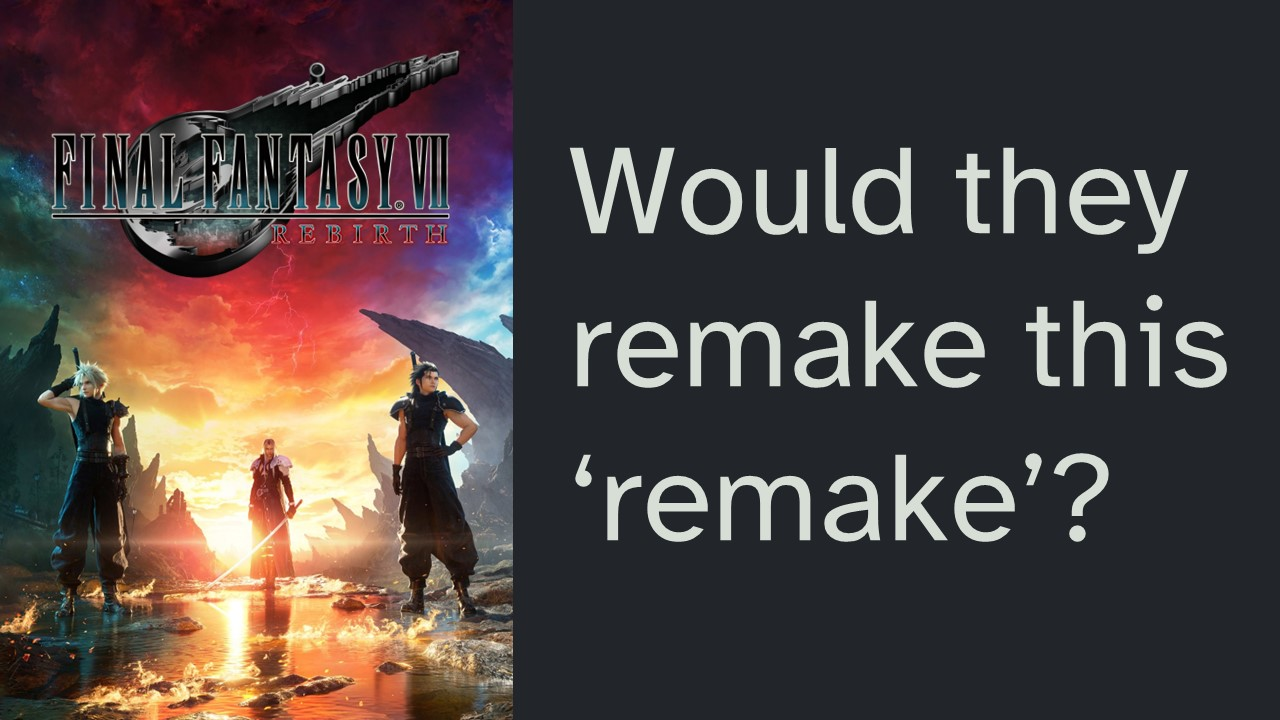
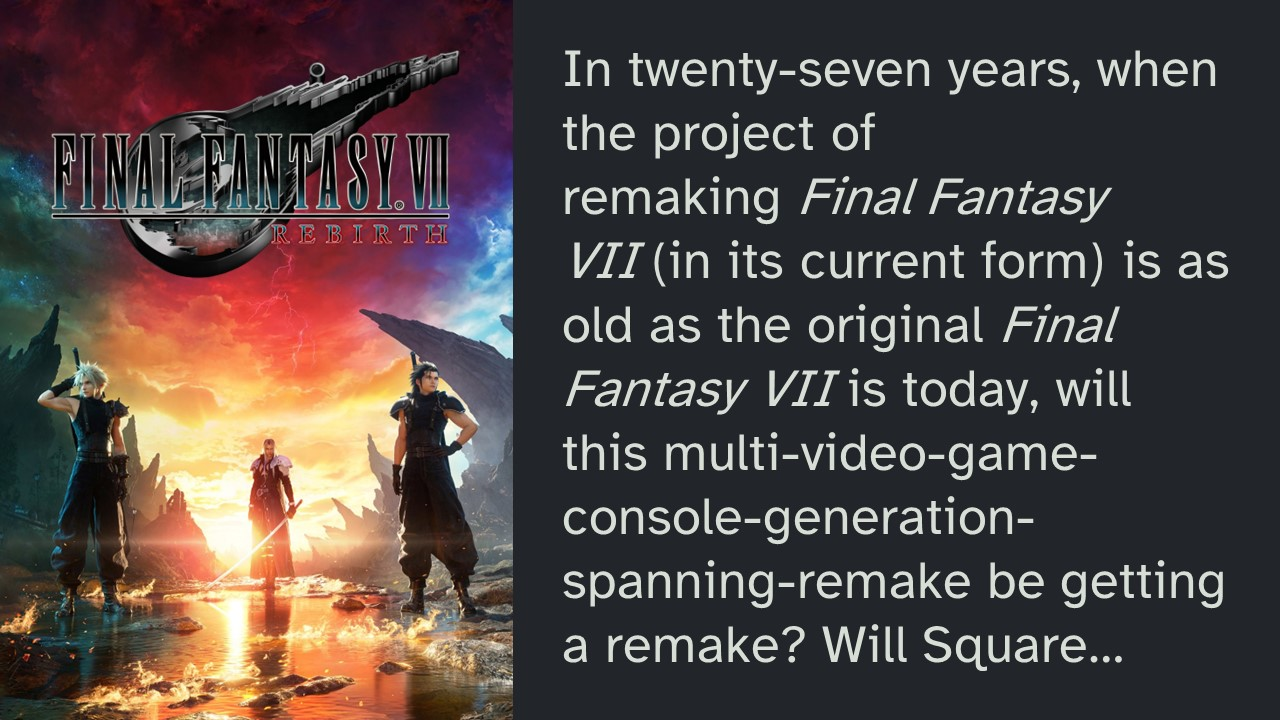
added animal well article

diff --git a/essays/Animal Well's Radical Reperformance of Metroidvania Colonisation.html b/essays/Animal Well's Radical Reperformance of Metroidvania Colonisation.html
@@ -1,0 +1,77 @@
+<!doctype html>
+<html>
+<head>
+	<meta charset="UTF-8">
+	<meta name="viewport" content="width=device-width, initial-scale=1">
+	<link rel="preload" href="../fonts/9Bt23C1KxNDXMspQ1lPyU89-1h6ONRlW45G04pIo.woff2" as="font" type="font/woff2" crossorigin>
+
+	<link rel="stylesheet" href="../styles/darkstyle.css">
+	<title>Animal Well's Radical Reperformance of Metroidvania Colonisation</title>
+</head>
+
+<h3 ><a href="../index.html" title="home">Animal Well's Radical Reperformance of Metroidvania Colonisation</a></h3>
+	
+	<img id="f1" src="../images/Animal Well.jpg" alt="" border="0" class="ecenter">
+	
+	<br>
+
+	<div>Compared to other metroidvanias, <em>Animal Well</em> offers a different sense of mastery and empowerment over the environment and in relation to your playable character. The upgrades you discover while exploring the map don't directly augment the little round creature you play as. Rather, they are random everyday items that allow you to deploy certain objects into the world. These can then be used to aid traversal or solve puzzles. For example, one of the first items you find - and I won't mention any others to avoid spoilers - but one of the first items you'll find is the bubble wand, which allows blow bubbles, which can then be jumped on to reach higher ground. There is no double jump to unlock, a recurring upgrade in many metroidvanias. The way it feels to play the character is unchanged throughout a playthrough. It moves in a very simple way, walking left and right and jumping. This simple round creature is a mere conduit through which you can add new objects to the world. And the playable character itself experiences no growth and remains unchanged. Compare this to Samus from the <em>Metroid</em> games or <em>Sargon from Prince of Persia: The Lost Crown.</em> Most upgrades enhance traversal by changing the playable characters themselves; how they move and attack within the world, as a means of gaining mastery over that world.</div>
+
+	<div aria-hidden="true" align="right"><a id="2." class="eposition" href="" target="_blank" title="Video comming soon">&#9655</a></div>
+
+	<div>A consequence of this difference for <em>Animal Well</em> is that you don't get that same feeling of mastery and dominance over your environment. I speak as someone who completed the main story, and I understand that there is still much to discover and even new items to unlock, post-credits, which could possibly serve as a counterpoint. And these remaining mysteries only add to the lack of a more traditional metroidvania power trip. But the consequence of all this is that <em>Animal Well</em> seems uninterested in making the player feel powerful; clever, maybe, because this is a puzzle game, but not themselves powerful. So there is a non-violence to the experience, even though there are some creatures to kill it's never essential except for the bosses and these are always defeated in an indirect sort of way, in the form of a puzzle. And many of the items you get feel a bit useless, like it's not initially clear how they are going to help you and their applications are specific to the puzzles. Unlike say, a blaster upgrade that can be applied universally to pretty much any problem, in the way violence assumes itself to be a potential solution to any problem, in the way video games love to solve problems with violence. Violence is a blanket solution to any situation, but it can never solve the problem of itself.</div>
+
+	<div aria-hidden="true" align="right"><a id="2." class="eposition" href="" target="_blank" title="Video comming soon">&#9655</a></div>
+
+	<div>Metroidvanias are video games about colonisation and in that sense, they also perform it. You acquire new abilities which allow you to dominate and control more of the map until the entire playspace can be easily traversed and you are equipped to exterminate anything that crosses your path. The first <em>Metroid</em> even takes place on an alien planet, where you kill every native lifeform you encounter. Granted, Samus isn't there for that; she's there to defeat the Mother Brain and stop the space pirates who stole the Metroid and want to use it as a biological weapon. But why did the Galactic Federation have a metroid and why were they doing experiments on it in the first place? The Galactic Federation is a colonising force. But I'm digressing because it is the way these games are played, irrespective of their stories, that makes them a performance of the gesture of colonialism and its violence. The satisfaction we get from these games, the sense of discovery is directly attached to the sense of mastery that follows. And this is the most violent thing about these games. It's not the case by case, death animations, it's the basic premise of dominating a space through the acquisition of abilities and tools that will enable the penetration of every part of it.</div>
+
+	<div aria-hidden="true" align="right"><a id="2." class="eposition" href="" target="_blank" title="Video comming soon">&#9655</a></div>
+
+	<div>Perhaps <em>Animal Well,</em> then, is the beginning of the video game discovering a kind of response to that. It's a discovery of a new posture the player might adopt in relation to the playspace or environment, which is a coexistence rather than a mastery. It generates an experience of solving puzzles <em>along with</em> the world, rather than <em>against</em> it. I don't want to say that <em>Animal Well</em> is the first game to do this, but it did feel novel to me, especially against other metroidvanias I've played. I also don't want to suggest that the video game itself, more broadly, needs to be 'decolonised' according to the popular discourse surrounding that concept. Because <em>Animal Well</em> shows us that the lived experience of a video game, at least its potentiality, is neutral, or better 'neither', in regards to those issues. It isn't confined by its status as a metroidvania to perform those hyper-individualist and colonising progression systems, not by virtue of its own genius or any special qualities within itself, but for what it takes for itself, de jure, as a video game. The violence of the other metroidvanias I've mentioned is not for an essentialism within the genre itself but for a simple lack of thought or wherewithal or desire to do something otherwise. The video game image can contain anything you like, and any limitations are hallucinatory. 'Hallucinatory': not to dismiss them or say they're not real,  but the video game's willingness to violate those boundaries is what can undermine them in popular and academic discourse. And essays like this are to point to that lived experience of the video game, and to frame it as a lived critique of the narrowness of our discussions, to support the generation of new experiences which are neither. That is, they are outside what is currently thinkable in discussions around decolonisation.</div>
+
+	<div aria-hidden="true" align="right"><a id="2." class="eposition" href="" target="_blank" title="Video comming soon">&#9655</a></div>
+
+	<div><em>Animal Well</em> doesn't decolonise exactly, because it's still a metroidvania, you still have to traverse the environment and overcome, in a sense, the creatures you encounter. However, it shows itself to enjoy a freedom as a video game, which precedes its status as a metroidvania. Rather than pushing <em>against</em> what metroidvanias are, <em>Animal Well</em> performs that genre again, only this time to discover new postures or identities within the image-event. We can regard these sorts of performances as a kind of 'thought' unique to video games, uninterested in reflecting or contradicting passed instances, but which is focused unidirectionally on  creatively resolving the next image (this is how video games are played). In this way, video games <em>think</em> non-philosophically; in this way, <em>Animal Well</em> performs the metroidvania in new ways, to perform a semblance of colonisation in new ways, which are non-violent. </div>
+<br>
+<br>
+<br>
+			
+
+
+
+
+
+
+
+
+
+
+
+
+
+
+
+
+
+
+
+
+
+
+
+
+
+		
+		
+		
+		
+		
+	
+	
+	
+		
+	
+		
+	
+</body>
+</html>

diff --git a/essays/FFVII Rebirth.html b/essays/FFVII Rebirth.html
@@ -15,15 +15,15 @@
 	
 	<br>
 
-	<div>This essay will contain major spoilers for the original 1997 video game, <em>Final Fantasy VII,</em> and the 2020 remake. I've tried to avoid spoiling the latest installment, released this year, called <em>Final Fantasy VII Rebirth.</em> But there will be some minor spoilers in the forms of the visuals I show and what's necessary for the concepts I'll be discussing. Where possible, I use examples from the original <em>Final Fantasy VII</em> to make my points. If you've never played that game, I recommend it. But if you don't plan on playing it, this essay may prepare you with the context necessary to appreciate <em>Rebirth</em> and even video games more generally, albeit with a disappointment in the state of the gaming industry. I hope you'll soon see what I mean.</div>
-
-	<div aria-hidden="true" align="right"><a id="2." class="eposition" href="" target="_blank" title="Video comming soon">&#9655</a></div>
-
 	<div>In twenty-seven years, when the project of remaking <em>Final Fantasy VII</em> (in its current form) is as old as the original <em>Final Fantasy VII</em> is today, will this multi-video-game-console-generation-spanning-remake be getting a remake? Will Square Enix, or whoever owns them in 2051, remake the remake? Will the kids of today remember playing the latest installment, called <em>Final Fantasy VII Rebirth,</em> and have nostalgia for what now functions as an elaborate pandering to our nostalgia? I don’t want to try and predict what a particular video game might become to certain generations of gamers, but I will say that however <em>Final Fantasy VII Rebirth</em> is remembered, whatever its contributions to the medium, this game has not 'remade' the original's impact. This isn’t a criticism either, because it certainly isn’t trying to; the performance of the game is aware of its non-equivalence with its source material to such a painful extent that this realisation has seeped and grown within the divergent retelling of the original story itself.</div>
 
 	<div aria-hidden="true" align="right"><a id="2." class="eposition" href="" target="_blank" title="Video comming soon">&#9655</a></div>
 
-	<div>It goes like this: <em>Final Fantasy VII Remake</em> was released in 2020 and initially posed as a faithful retelling of the first act of the original, a straight 'remake'. However, the introduction of a new plot device revealed Remake to not be the remake we were expecting:</div> 
+	<div>This essay will contain major spoilers for the original 1997 video game, <em>Final Fantasy VII,</em> and the 2020 remake. I've tried to avoid spoiling the latest instalment, released this year, called <em>Final Fantasy VII Rebirth.</em> But there will be some minor spoilers in the forms of the visuals I show and what's necessary for the concepts I'll be discussing. Where possible, I use examples from the original <em>Final Fantasy VII</em> to make my points. If you've never played that game, I recommend it. But if you don't plan on playing it, this essay may prepare you with the context necessary to appreciate <em>Rebirth</em> and even video games more generally, albeit with a disappointment in the state of the gaming industry. I hope you'll soon see what I mean.</div>
+
+	<div aria-hidden="true" align="right"><a id="2." class="eposition" href="" target="_blank" title="Video comming soon">&#9655</a></div>
+
+	<div><em>Final Fantasy VII Remake</em> was released in 2020 and initially posed as a faithful retelling of the first act of the original, a straight 'remake'. However, the introduction of a new plot device revealed Remake to not be the remake we were expecting:</div> 
 	<blockquote><span class="small">Whispers. Perhaps best described as arbiters of fate. They are drawn to those who attempt to alter destiny’s course and ensure they do not.</span></blockquote>
 	<div>Let’s say these whispers are a diegetic analogue of the loyalist fans demanding an accurate retelling, against the creative impulses of the developers and their desire to tell a new story. Cloud and his companion’s struggle against the whispers at each instance of the story’s divergence from the original, is a reflection of the developer’s struggles to fulfill fan’s expectations. At Remake's conclusion, it remained to be seen which force would win out in this struggle between nostalgia and new visions; though the finale seemed to suggest a breaking away from destiny and the opening up of more possibilities in its sequel, <em>Rebirth.</em> Now having experienced the remake's continuation, it's clear those expectations failed to appreciate the depth of the <em>Final Fantasy VII</em> remake project’s existential crisis.</div>
 

diff --git a/index.html b/index.html
@@ -11,27 +11,31 @@
 </head>
 <h1 class="dina-font" align="center">VIDEO GAMES THINK</h1>
 <br>
+	<div>Video games think on their own before we think about them. We do not need to give a type of intellectual analysis or artistic appraisal to them. They are their own best description of themselves, being both an image and an indeterminate inter-human event. Video games are their own type of thought. The discovery and enabling of which has the potential to be a radical displacment outside the institutions of representational philosophy.</div>
+<br>
 	<div>This website is a platform for the emancipation of the video game from two competing forces; its determination as a consumer product and its misrepresentation vis-à-vis other mediums.</div>
 	<div align="right"><em>Dr Ben Evans</em></div>
 	<br>
-    <hr class="short-hr" style="margin-bottom: 3px;">
+    <hr class="short-hr" style="margin-bottom: 5px;">
     <div align="center" style="margin-bottom: -15px;">My PhD thesis is an interactive website.</div>
     <h2 align="center" style="line-height: 1;"><a href="title.html">Videogames for a New Anthropological Image</a></h2>
     <div align="center" style="margin-top: -15px;">You can read it here.</div>
-    <hr class="short-hr" style="margin-top: 3px;">
+    <hr class="short-hr" style="margin-top: 5px;">
 	<br>
+<h3><a href="essays/Animal Well's Radical Reperformance of Metroidvania Colonisation.html" title="read">Animal Well's Radical Reperformance of Metroidvania Colonisation</a></h3>
+<img id="f1" src="images/Animal Well.jpg" alt="" border="0" class="ecenter">
+<div align="right">(<a href="essays/Animal Well's Radical Reperformance of Metroidvania Colonisation.html" title="read">read more</a>)</div>
+
 <h3><a href="essays/FFVII Rebirth.html" title="read">Final Fantasy VII Rebirth</a></h3>
 <img id="f1" src="images/FFVII.jpg" alt="" border="0" class="ecenter">
-<br>
-<div>This essay will contain major spoilers for the original 1997 video game, <em>Final Fantasy VII,</em> and the 2020 remake. I've tried to avoid spoiling the latest installment, released this year, called <em>Final Fantasy VII Rebirth.</em> But there will be some minor spoilers in the forms of the visuals I show... (<a href="essays/FFVII Rebirth.html" title="read">read more</a>)</div>
-<br>
+<div align="right">(<a href="essays/FFVII Rebirth.html" title="read">read more</a>)</div>
+
 <h3><a href="essays/Minishoot' Adventures is a Gateway Drug.html" title="read">Minishoot' Adventures is a Gateway Drug</a></h3>
 <figure>
     <div style="padding:56.25% 0 0 0;position:relative;"><iframe src="https://www.youtube.com/embed/P_I3UwmEwHc?si=0pmKxrv8sxMDSEkl" title="YouTube video player" frameborder="0" allow="accelerometer; autoplay; clipboard-write; encrypted-media; gyroscope; picture-in-picture; web-share" style="position:absolute;top:0;left:0;width:100%;height:100%;" referrerpolicy="strict-origin-when-cross-origin" allowfullscreen></iframe></div>
 </figure> 
-<br>
-<div>Minishoot' Adventures is a twin stick shooter, bullet hell RPG that takes a lot of inspiration from the Legend of Zelda series. In this game you don't play as a person, you play as a cute little spaceship. This feels appropriate to the bullet hell gameplay, and follows the same... (<a href="essays/Minishoot' Adventures is a Gateway Drug.html" title="read">read more</a>)</div>
-<br>
+<div align="right">(<a href="essays/Minishoot' Adventures is a Gateway Drug.html" title="read">read more</a>)</div>
+
 <h3><a href="essays/Laruelle's Philosophy and Non-Philosophy.html" title="read">Laruelle's Philosophy and Non-Philosophy</a></h3>
 <figure>
     <div style="padding:56.25% 0 0 0;position:relative;"><iframe src="https://www.youtube.com/embed/G-pWHLWblVo?si=ALbalvTvnatp4goQ" title="YouTube video player" frameborder="0" allow="accelerometer; autoplay; clipboard-write; encrypted-media; gyroscope; picture-in-picture; web-share" style="position:absolute;top:0;left:0;width:100%;height:100%;" referrerpolicy="strict-origin-when-cross-origin" allowfullscreen></iframe></div>

diff --git a/essays/Minishoot' Adventures is a Gateway Drug.html b/essays/Minishoot' Adventures is a Gateway Drug.html
@@ -17,7 +17,7 @@
 	
 	<br>
 
-	<div>Minishoot' Adventures is a twin stick shooter, bullet hell RPG that takes a lot of inspiration from the Legend of Zelda series. In this game you don't play as a person, you play as a cute little spaceship. This feels appropriate to the bullet hell gameplay, and follows the same playful logic as the Cars Pixar films. They could have made this game resemble RPGs in a more traditional way by making your character a person in the style of Enter the Gungeon, but I'm glad they didn't</div>
+	<div>Minishoot' Adventures is a twin stick shooter, bullet hell RPG that takes a lot of inspiration from the Legend of Zelda series. In this game you don't play as a person, you play as a cute little spaceship. This feels appropriate to the bullet hell gameplay and follows the same playful logic as the Cars Pixar films. They could have made this game resemble RPGs in a more traditional way by making your character a person in the style of Enter the Gungeon, but I'm glad they didn't</div>
 
 	<div aria-hidden="true" align="right"><a id="3." class="eposition" href="https://youtu.be/P_I3UwmEwHc?si=OWyqvQTNHdekSPNK&t=23" target="_blank" title="Watch this paragraph on YouTube">&#9655</a></div>
 
